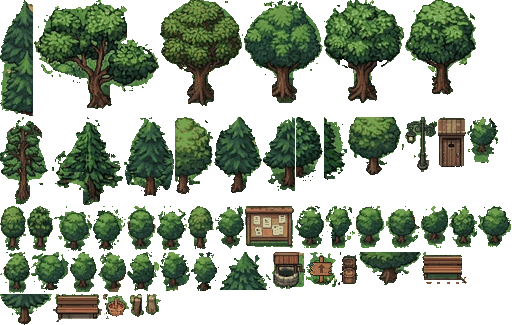
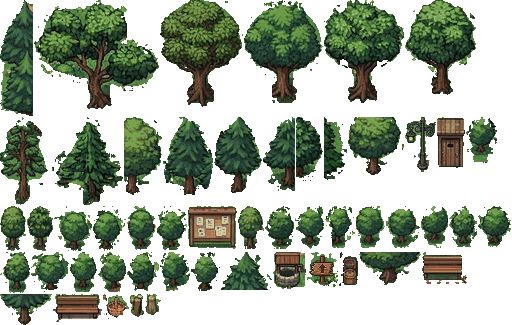
Cartel de la colina con la madera de la pintura
El cartel de colores planos no parecía del juego. Ahora se arma con los
tonos de una tabla de verdad de la pintura (el asiento del banco de la
plaza): luz arriba, cuerpo con la veta de la referencia, sombra abajo,
astillas que agarran la luz, contorno marrón que se funde con el pasto y
la flecha tallada con su borde iluminado. Pasa de dibujo a retoque propio
(`cartel x y madera bx by`) porque necesita leer la pintura.

Claude-Session: https://claude.ai/code/session_01F7XQoMufyfWvZQHFu1K4oF

Changed region(s): [[0.3438, 0.6154, 0.7188, 0.8923], [0.2188, 0.3385, 0.4375, 0.6154], [0.8438, 0.3692, 0.9688, 0.5231]]

diff --git a/src/data/mapas.js b/src/data/mapas.js
@@ -1004,25 +1004,25 @@ AG.MAPAS = {
           "w": 31,
           "h": 35,
           "piso": 201,
-          "ax": 306,
+          "ax": 307,
           "ay": 252
         },
         {
           "x": 240,
           "y": 71,
           "w": 28,
-          "h": 50,
+          "h": 51,
           "piso": 122,
-          "ax": 438,
+          "ax": 437,
           "ay": 117
         },
         {
           "x": 220,
-          "y": 178,
+          "y": 177,
           "w": 49,
-          "h": 42,
+          "h": 43,
           "piso": 220,
-          "ax": 245,
+          "ax": 188,
           "ay": 206
         },
         {
@@ -1037,7 +1037,7 @@ AG.MAPAS = {
         {
           "x": 483,
           "y": 137,
-          "w": 32,
+          "w": 31,
           "h": 55,
           "piso": 190,
           "ax": 405,
@@ -1049,16 +1049,16 @@ AG.MAPAS = {
           "w": 33,
           "h": 37,
           "piso": 275,
-          "ax": 272,
+          "ax": 273,
           "ay": 252
         },
         {
           "x": 717,
-          "y": 144,
-          "w": 20,
-          "h": 33,
+          "y": 143,
+          "w": 19,
+          "h": 34,
           "piso": 178,
-          "ax": 338,
+          "ax": 339,
           "ay": 252
         },
         {
@@ -1101,9 +1101,9 @@ AG.MAPAS = {
           "x": 0,
           "y": 34,
           "w": 38,
-          "h": 77,
+          "h": 78,
           "piso": 108,
-          "ax": 175,
+          "ax": 124,
           "ay": 117
         },
         {
@@ -1112,7 +1112,7 @@ AG.MAPAS = {
           "w": 26,
           "h": 43,
           "piso": 50,
-          "ax": 188,
+          "ax": 238,
           "ay": 206
         },
         {
@@ -1128,7 +1128,7 @@ AG.MAPAS = {
           "x": 258,
           "y": 5,
           "w": 83,
-          "h": 106,
+          "h": 107,
           "piso": 110,
           "ax": 160,
           "ay": 0
@@ -1180,11 +1180,11 @@ AG.MAPAS = {
         },
         {
           "x": 729,
-          "y": 169,
+          "y": 168,
           "w": 29,
-          "h": 42,
+          "h": 43,
           "piso": 208,
-          "ax": 295,
+          "ax": 265,
           "ay": 206
         },
         {
@@ -1283,7 +1283,7 @@ AG.MAPAS = {
           "w": 29,
           "h": 43,
           "piso": 496,
-          "ax": 215,
+          "ax": 295,
           "ay": 206
         },
         {
@@ -1337,7 +1337,7 @@ AG.MAPAS = {
           "w": 31,
           "h": 46,
           "piso": 358,
-          "ax": 467,
+          "ax": 466,
           "ay": 117
         },
         {
@@ -1377,9 +1377,9 @@ AG.MAPAS = {
           "ay": 206
         },
         {
-          "x": 684,
+          "x": 683,
           "y": 456,
-          "w": 28,
+          "w": 29,
           "h": 39,
           "piso": 492,
           "ax": 191,
@@ -1423,11 +1423,11 @@ AG.MAPAS = {
         },
         {
           "x": 558,
-          "y": 272,
+          "y": 273,
           "w": 50,
-          "h": 79,
+          "h": 78,
           "piso": 352,
-          "ax": 124,
+          "ax": 163,
           "ay": 117
         },
         {
@@ -1463,7 +1463,7 @@ AG.MAPAS = {
           "w": 51,
           "h": 38,
           "piso": 512,
-          "ax": 220,
+          "ax": 221,
           "ay": 252
         }
       ]

diff --git a/tools/escenarios.py b/tools/escenarios.py
@@ -202,6 +202,8 @@ def retocar(imagen: Image.Image, retoques: list[list[str]]) -> dict:
                                      tramo [sx0, sx1) de una de las filas limpias `a b …`, corrido
                                      un poco en cada fila para que la veta no se vea calcada
     - `sombra cx cy rx ry`           oscurece una elipse del piso: la sombra de algo que se dibuja
+    - `cartel x y madera bx by`      el cartel de la colina parado en (x, y), hecho con la madera
+                                     de la propia pintura: (bx, by) es la tabla que la presta
     - `dibujo <nombre> x y`          uno de los dibujitos de DIBUJOS (abajo)
     """
     exactos: dict = {}
@@ -244,6 +246,10 @@ def retocar(imagen: Image.Image, retoques: list[list[str]]) -> dict:
                     if ((x - cx) / rx) ** 2 + ((y - cy) / ry) ** 2 <= 1:
                         r, g, b = datos[x, y][:3]
                         datos[x, y] = (round(r * 0.62), round(g * 0.66), round(b * 0.66))
+        elif orden == "cartel":
+            x, y = _numeros(partes[1:3])
+            bx, by = _numeros(partes[4:6])
+            cartel_colina(imagen, x, y, (bx, by))
         elif orden == "dibujo":
             x, y = _numeros(partes[2:4])
             capa = Image.new("RGBA", imagen.size, (0, 0, 0, 0))
@@ -339,47 +345,154 @@ def _flor_cartel(dib: ImageDraw.ImageDraw, x: int, y: int) -> None:
         "g": (78, 104, 58), "G": (116, 146, 80)})
 
 
-def _cartel_colina(dib: ImageDraw.ImageDraw, x: int, y: int) -> None:
-    """El cartel de madera con la flecha hacia la colina, al pie del camino de arriba.
+# --- el cartel de la colina -----------------------------------------------------------------
+#
+# La forma (la tabla astillada, el poste y la base) y la veta salen de la referencia que pasó
+# Alex, con la flecha vuelta hacia arriba. Los colores no son inventados: cada fila de la tabla
+# toma los tonos de una tabla de verdad de la pintura (el asiento del banco de la plaza), así el
+# cartel tiene la misma luz, las mismas bandas y el mismo marrón que el resto del pueblo. Hecho
+# con colores planos se veía de otro juego.
+#
+#   o contorno · T tabla · P poste · B base · . afuera
 
-    (x, y) es el punto donde la base toca el piso. Mide 26 × 27: la forma (la tabla astillada,
-    el poste y la base) sale de la referencia que pasó Alex, con la flecha vuelta hacia arriba y
-    los marrones de la madera del pueblo, para que no parezca de otro juego.
+CARTEL_FORMA = [
+    "............ooo...........",
+    "...........oPPPo..........",
+    "...........oPPPo..........",
+    "...........oPPPo..........",
+    "...........oPPPo..........",
+    "...........oPPPo..........",
+    ".....oooooooooooooooooo...",
+    "....oTTTTTTTTTTTTTTTTTTo..",
+    ".....oTTTTTTTTTTTTTTTTTo..",
+    "...ooTTTTTTTTTTTTTTTTTTTo.",
+    "..oTTTTTTTTTTTTTTTTTTTTo..",
+    "...oTTTTTTTTTTTTTTTTTTo...",
+    "..oTTTTTTTTTTTTTTTTTTo....",
+    "...oTTTTTTTTTTTTTTTTTTo...",
+    "...ooTTTTTTTTTTTTTTTTTTo..",
+    "..oTTTTTTTTTTTTTTTTTToo...",
+    ".oTTTTTTTTTTTTTTTTTTo.....",
+    "..oTTTTTTTTTTTTTTTTTTooo..",
+    "...ooTTTTTTTTTTTTTTTTTTTo.",
+    ".....ooooooooooooooooooo..",
+    "...........oPPPo..........",
+    "...........oPPPo..........",
+    "...........oPPPo..........",
+    "...........oPPPo..........",
+    "...........oPPPo..........",
+    "..........ooPPPoo.........",
+    "........oBBBBBBBBo........",
+]
+CARTEL_VETA = [   # una fila por fila de tabla (la 7 de la forma en adelante)
+    "..............dddddddddd..",
+    ".........dd..........dd...",
+    "......................dd..",
+    "....dddd....d.........d...",
+    "..........ddd..ddd...d....",
+    "....dd...ddddddd.....d....",
+    "........ddddddddddd.......",
+    "...........dddddddd.ddd...",
+    ".....ddddd..ddd.....dd....",
+    "....dddd...d.d.ddd..d.....",
+    "...................dddd...",
+    "......dddd..dddddddddddd..",
+]
+CARTEL_FLECHA = {8: (0, 0), 9: (-1, 1), 10: (-2, 2), 11: (-3, 3), 12: (-1, 1), 13: (-1, 1),
+                 14: (-1, 1), 15: (-1, 1), 16: (-1, 1)}   # fila: desde, hasta (respecto al poste)
+
+
+def cartel_colina(imagen: Image.Image, x: int, y: int, madera: tuple[int, int]) -> None:
+    """El cartel con la flecha hacia la colina; (x, y) es donde la base toca el piso.
+
+    `madera` es la esquina izquierda de la tabla que presta los colores: de ahí hacia abajo,
+    la fila de luz, la de la veta, las dos del cuerpo y la de la sombra (en el banco de la plaza,
+    las filas 1 a 5 del asiento).
     """
-    _patron(dib, x - 13, y - 26, [
-        "............ooo...........",
-        "...........odddo..........",
-        "...........ommdo..........",
-        "...........ommdo..........",
-        "...........ommdo..........",
-        "...........ommdo..........",
-        ".....oooooooooooooooooo...",
-        "....ohmmmmmmmmdddddddddo..",
-        ".....ohmmmmmmxmmmmmmmddo..",
-        "...oohddmmmmxxxmmmmmmmddo.",
-        "..ohdddmmmmxxxxxmmmmmmdo..",
-        "...ohmmmmmxxxxxxxmmmmdo...",
-        "..ohddmmmmmmxxxmmddddo....",
-        "...ohmmmmmmmxxxmmmmmmmo...",
-        "...oohmmmmmmxxxmmmmmdddo..",
-        "..ohdddmmmmmxxxmmmmmdoo...",
-        ".ohmmddmmmmmxxxmdddmo.....",
-        "..ohhmmmmmmmmmmmmmmmdooo..",
-        "...oohmmmmmmmmmmmmmmddddo.",
-        ".....ooooooooooooooooooo..",
-        "...........ommdo..........",
-        "...........ommdo..........",
-        "...........ommdo..........",
-        "...........ommdo..........",
-        "...........omddo..........",
-        "..........ooddoo..........",
-        "........oooooooooo........",
-    ], {"o": (52, 32, 24), "h": (204, 152, 104), "m": (170, 114, 76), "d": (136, 90, 62),
-        "x": (98, 60, 42)})
+    datos = imagen.load()
+    x0, y0 = x - 13, y - 26
+    alto, ancho = len(CARTEL_FORMA), len(CARTEL_FORMA[0])
+    largo = 38
+    fila = lambda dy: [datos[madera[0] + i, madera[1] + dy][:3] for i in range(largo)]
+    luz, veta, cuerpo, cuerpo2, sombra = fila(1), fila(2), fila(3), fila(4), fila(5)
+    contorno = (52, 30, 20)
+    poste = [(150, 104, 70), (118, 78, 50), (84, 54, 36)]     # de la cara con luz a la de sombra
+
+    def por(color, k):
+        return tuple(max(0, min(255, round(c * k))) for c in color)
+
+    def hacia(a, b, t):
+        return tuple(round(p + (q - p) * t) for p, q in zip(a, b))
+
+    def ruido(i, j):          # fijo, para que el cartel salga igual cada vez
+        return ((i * 73 + j * 151 + i * j * 7) % 17) / 16
+
+    def tabla(i, j):
+        return 0 <= j < alto and 0 <= i < ancho and CARTEL_FORMA[j][i] == "T"
+
+    flecha = {(i, j) for j, (a, b) in CARTEL_FLECHA.items() for i in range(13 + a, 14 + b)}
+    for j, renglon in enumerate(CARTEL_FORMA):
+        for i, letra in enumerate(renglon):
+            punto = (x0 + i, y0 + j)
+            if letra == "T":
+                col = (i * 3 + j) % largo
+                if not tabla(i, j - 1):
+                    color = luz[col]
+                elif not tabla(i, j + 1):
+                    color = sombra[col]
+                else:
+                    color = (cuerpo if (j + i // 6) % 2 else cuerpo2)[col]
+                    if CARTEL_VETA[j - 7][i] == "d" and (i, j) not in flecha and tabla(i, j + 1):
+                        color = hacia(color, veta[col], 0.75)
+                color = por(color, 1.06 - 0.14 * i / ancho)    # la luz viene de la izquierda
+                if not tabla(i - 1, j):
+                    color = por(color, 1.18)                   # la astilla que agarra la luz
+                if not tabla(i + 1, j):
+                    color = por(color, 0.84)
+                if tabla(i, j + 1) and not tabla(i, j + 2):
+                    color = por(color, 0.9)
+                datos[punto] = color
+            elif letra == "P":
+                color = por(poste[i - 12], 0.94 + 0.1 * ruido(i, j))
+                if j in (20, 21):
+                    color = por(color, 0.62 if j == 20 else 0.8)   # la sombra de la tabla
+                if j == 1:
+                    color = por(color, 1.15)                       # la punta del poste
+                datos[punto] = color
+            elif letra == "B":
+                datos[punto] = por((92, 62, 42), 0.9 + 0.15 * ruido(i, j))
+            elif letra == "o":
+                datos[punto] = por(contorno, 0.9 + 0.2 * ruido(i, j))
+
+    # La flecha, tallada: el surco oscuro y su borde de abajo y de la derecha, que agarran luz.
+    for i, j in flecha:
+        datos[x0 + i, y0 + j] = por(datos[x0 + i, y0 + j], 0.42)
+    for i, j in flecha:
+        if (i, j + 1) not in flecha:
+            datos[x0 + i, y0 + j + 1] = por(datos[x0 + i, y0 + j + 1], 1.25)
+        if (i + 1, j) not in flecha:
+            datos[x0 + i + 1, y0 + j] = por(datos[x0 + i + 1, y0 + j], 1.12)
+
+    # El borde se funde un poco con el pasto, como el contorno pintado de las cosas del pueblo.
+    for j in range(-1, alto + 1):
+        for i in range(-1, ancho + 1):
+            if 0 <= j < alto and 0 <= i < ancho and CARTEL_FORMA[j][i] != ".":
+                continue
+            vecinos = sum(1 for di, dj in ((1, 0), (-1, 0), (0, 1), (0, -1))
+                          if 0 <= j + dj < alto and 0 <= i + di < ancho
+                          and CARTEL_FORMA[j + dj][i + di] == "o")
+            if vecinos:
+                punto = (x0 + i, y0 + j)
+                datos[punto] = hacia(datos[punto][:3], contorno, 0.22 * vecinos)
+
+    # Unas briznas de pasto por delante de la base, para que el cartel esté clavado y no apoyado.
+    for i, brizna in ((7, 2), (8, 1), (9, 2), (17, 1), (18, 2), (19, 1)):
+        for h in range(brizna):
+            datos[x0 + i, y0 + 26 - h] = por(datos[x0 + i, y0 + 29][:3], 1.05)
 
 
 DIBUJOS = {"nota": _nota, "marca_calendario": _marca_calendario, "espejo_ropero": _espejo_ropero,
-           "flor_cartel": _flor_cartel, "cartel_colina": _cartel_colina}
+           "flor_cartel": _flor_cartel}
 
 
 def pintura(mapa: dict) -> Image.Image:
